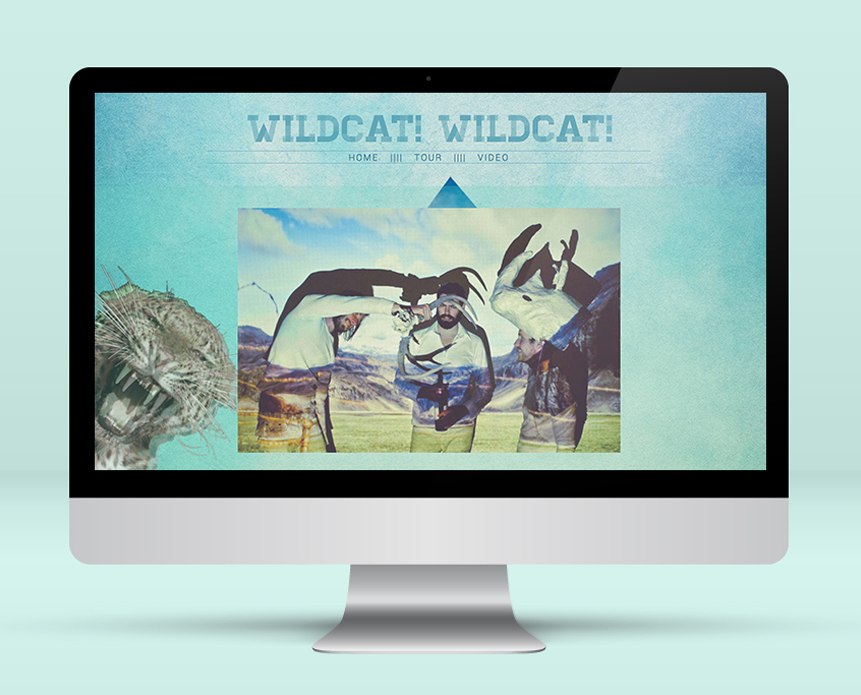
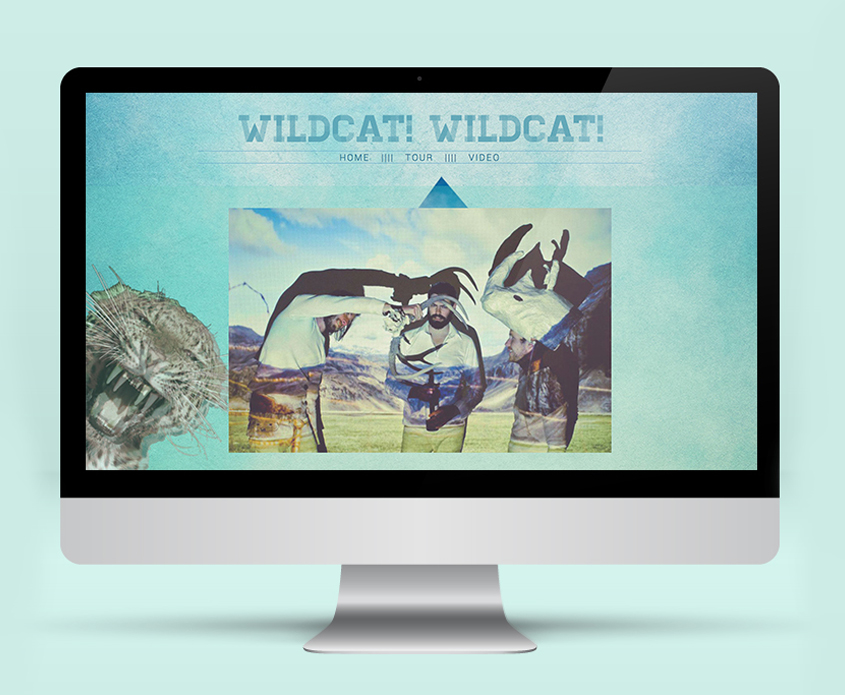
!BROKEN!
broke project bg

diff --git a/css/style.css b/css/style.css
@@ -267,32 +267,31 @@ h1 {
 }
 
 
-.float_full .anne{
-   display:block;
-   overflow:hidden;
-   margin: 0 auto;
-   width: 100%;
-  
-
-}
-
 
 
 #project_wrapper {
-    margin-top: 200px;
+    margin-top: 160px;
+    width: 100%;
+    display:block;
     
 
 }
 
 #anne_bg{
    background-color: #d1e4ea; 
-     
     padding-top: 30px;
+    padding-right: 300px;
+
+}
+
+#wildcat_bg{
+  background-color: #ccebe5; 
+  padding-top: 30px;
 
 }
 
 #project_copy {
-    margin-left: 110px;
+    margin-left: 155px;
     line-height: 30px;
 }
 
@@ -302,9 +301,7 @@ h1 {
     font-weight: 100;
     font-size: 13px;
     line-height: 16px;
-
-
-
+    padding-bottom: 25px;
 }
 
 #project_copy h3{
@@ -312,6 +309,9 @@ h1 {
     font-weight: 200;
     color: #3ab8d2;
     letter-spacing: 1px;
+    text-transform: uppercase;
+    font-style: italic;
+    line-height: 40px;
 
 }
 
@@ -321,9 +321,10 @@ h1 {
 }
 
 .project_view img{
-    padding-bottom: 30px;
+    padding-bottom: 40px;
     width: 900px;
-    margin-left: 30px;
+    margin-left: 90px;
+    padding-right: 90px;
 }
 
 #work_wrapper {
@@ -577,8 +578,8 @@ h1 {
     #project_wrapper {
         background-color: #d1e4ea;        
         padding-left: 20px;
-        margin-top: 200px;
-        padding-top: 30px;
+    
+       
 
     }
 
@@ -643,7 +644,7 @@ h1 {
      width: 240px;
      padding-top: 50px;
      display: block;
-     margin-right: 50px;
+     margin-right: 45px;
     }
 
 
@@ -673,13 +674,12 @@ h1 {
     #project_wrapper {
     background-color: #d1e4ea;        
     padding-left: 10px;
-    margin-top: 200px;
-    padding-top: 30px;
+  
 
 }
 
     #project_copy {
-        margin-left: 70px;
+        margin-left: 80px;
         line-height: 30px;
     }
 
@@ -761,8 +761,7 @@ h1 {
     #project_wrapper {
         background-color: #d1e4ea;        
         padding-left: 10px;
-        margin-top: 200px;
-        padding-top: 30px;
+    
 
     }
 

diff --git a/float_container_wildcat.html b/float_container_wildcat.html
@@ -15,8 +15,9 @@
 	
 </head>
 
-<div id="wrapper">
+
 	<body>
+		<div id="wrapper">
 		<div id="container">
 			<div class="float_full">
 				<div id="project_header">
@@ -43,21 +44,27 @@
 			</div> <!-- .float_full --> 	
 
 
-			<div class="float_full anne">
+			<div class="float_full">
 
-				<div id="project_wrapper_wildcat">
+				<div id="project_wrapper">
+
+					<div id="wildcat_bg">
+
 					<div id="project_copy">
-						<h3>Anne Fink Website</h3>
-						<p> Website I created for the graphic designer, Anne Fink.</p>
+						<h3>Description</h3>
+						<p> Concept website I created for the band Wildcat! Wildcat!</p>
+						<h3>Roles</h3>
+						<p> Designed and coded from scratch by yours truly.</p>
 					</div><!--#project_copy-->
 
 					<div class="project_view">
 						<img src="images/wildcat/wildcat_hp.jpg" alt="work"/> 
 						<img src="images/wildcat/wildcat_video.jpg" alt="work"/> 
-						<img src="images/anne/2.jpg" alt="work"/> 
+						<img src="images/wildcat/wildcat_collage.jpg" alt="work"/> 
 					
 
 					</div><!--#project_view-->
+				</div><!--#wildcat_bg-->
 				</div><!--#project_wrapper-->
 
 
@@ -85,6 +92,7 @@
 				</div>
 			</div>
 		</div><!-- #container --> 
+		</div><!--wrapper-->
 
 		<!-- jQuery core goes here-->
 		<script src="http://ajax.googleapis.com/ajax/libs/jquery/1.10.2/jquery.min.js"></script>
@@ -93,7 +101,6 @@
 
 
 		<!-- my custom JS script goes here-->
-
 	</body>
-</div>
+
 </html>

diff --git a/float_container_anne.html b/float_container_anne.html
@@ -43,7 +43,7 @@
 			</div> <!-- .float_full --> 	
 
 
-			<div class="float_full anne">
+			<div class="float_full">
 
 				<div id="project_wrapper">
 					<div id="anne_bg">
